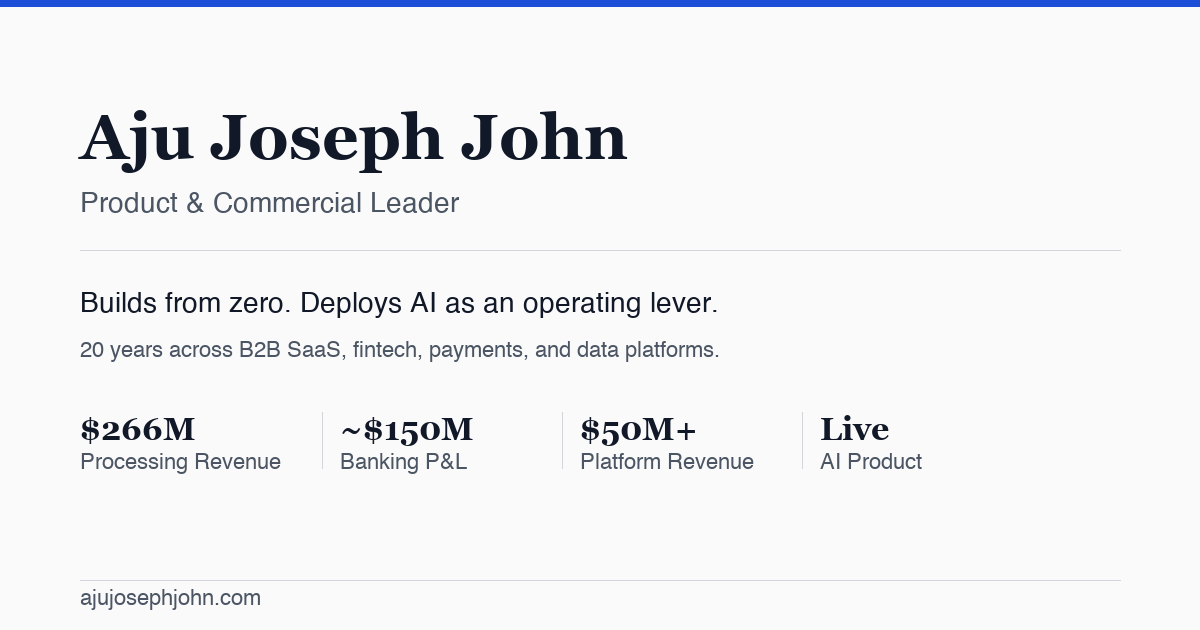
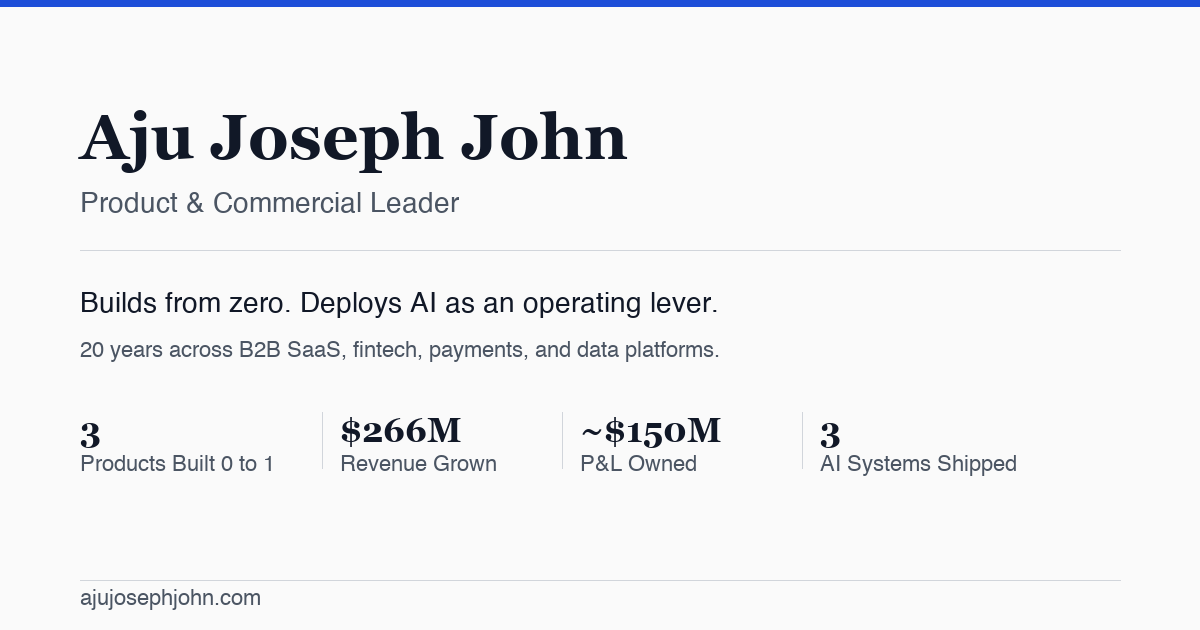
Restructure metric strip to signal product builder, not just GM
Four distinct muscles: Products Built 0 to 1, Revenue Grown,
P&L Owned, AI Systems Shipped. Updated hero text, career scope,
meta descriptions, and OG image to match.

diff --git a/app/page.tsx b/app/page.tsx
@@ -4,11 +4,11 @@ import Link from 'next/link'
 export const metadata: Metadata = {
   title: 'Aju Joseph John | Product & Commercial Leader',
   description:
-    'Product and P&L leader who builds from zero and deploys AI as an operating lever. 20 years across B2B SaaS, fintech, payments, and data platforms. $27M+ P&L, $150M portfolio, five production AI systems.',
+    'Product and P&L leader who builds from zero and deploys AI as an operating lever. 20 years across B2B SaaS, fintech, payments, and data platforms. Three products built 0 to 1. ~$150M P&L. Three AI systems in production.',
   openGraph: {
     title: 'Aju Joseph John | Product & Commercial Leader',
     description:
-      'Product and P&L leader who builds from zero and deploys AI as an operating lever. 20 years across B2B SaaS, fintech, payments, and data platforms. $27M+ P&L, $150M portfolio, five production AI systems.',
+      'Product and P&L leader who builds from zero and deploys AI as an operating lever. 20 years across B2B SaaS, fintech, payments, and data platforms. Three products built 0 to 1. ~$150M P&L. Three AI systems in production.',
     url: 'https://ajujosephjohn.com',
     images: [{ url: '/og-image.png', width: 1200, height: 630, alt: 'Aju Joseph John — Product & Commercial Leader' }],
   },
@@ -61,17 +61,17 @@ const caseStudies = [
 ]
 
 const metrics = [
-  { value: '$230M → $266M', label: 'Processing Revenue', study: 'B2B Payments Turnaround' },
-  { value: '~$150M', label: 'Banking P&L', study: 'Fiserv' },
-  { value: '$50M+', label: 'Platform Revenue', study: 'HPCC at LexisNexis' },
-  { value: 'Live', label: 'AI Product Shipped', study: 'Redline' },
+  { value: '3', label: 'Products Built 0→1' },
+  { value: '$230M → $266M', label: 'Revenue Grown' },
+  { value: '~$150M', label: 'P&L Owned' },
+  { value: '3', label: 'AI Systems Shipped' },
 ]
 
 const careerScope = [
   { value: '20', label: 'Years' },
   { value: '4', label: 'Countries' },
-  { value: '$27M+', label: 'P&L' },
-  { value: '5', label: 'AI Systems' },
+  { value: '3', label: 'Industries' },
+  { value: 'Duke', label: 'MBA' },
 ]
 
 export default function HomePage() {
@@ -142,7 +142,7 @@ export default function HomePage() {
               </p>
               <p className="mt-3 text-base text-secondary leading-relaxed max-w-2xl">
                 20 years across B2B SaaS, fintech, payments, and data platforms.
-                Four countries. $27M+ in P&L ownership. Five production AI systems shipped.
+                Four countries. Three products built from zero. Three AI systems in production.
               </p>
             </div>
             <img
